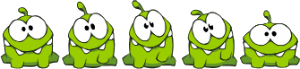
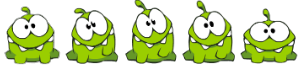
Fixed hero sprites.

diff --git a/js/constants.js b/js/constants.js
@@ -40,7 +40,7 @@ var Bonus = {
 // Hero constants and variables.
 var frameWidth = 60;
 var heroWidth = 60;
-var heroHeight = 69;
+var heroHeight = 65;
 var maxSpeedY = 15;
 var maxSpeedX = 10;
 var gravity = 9.8;
